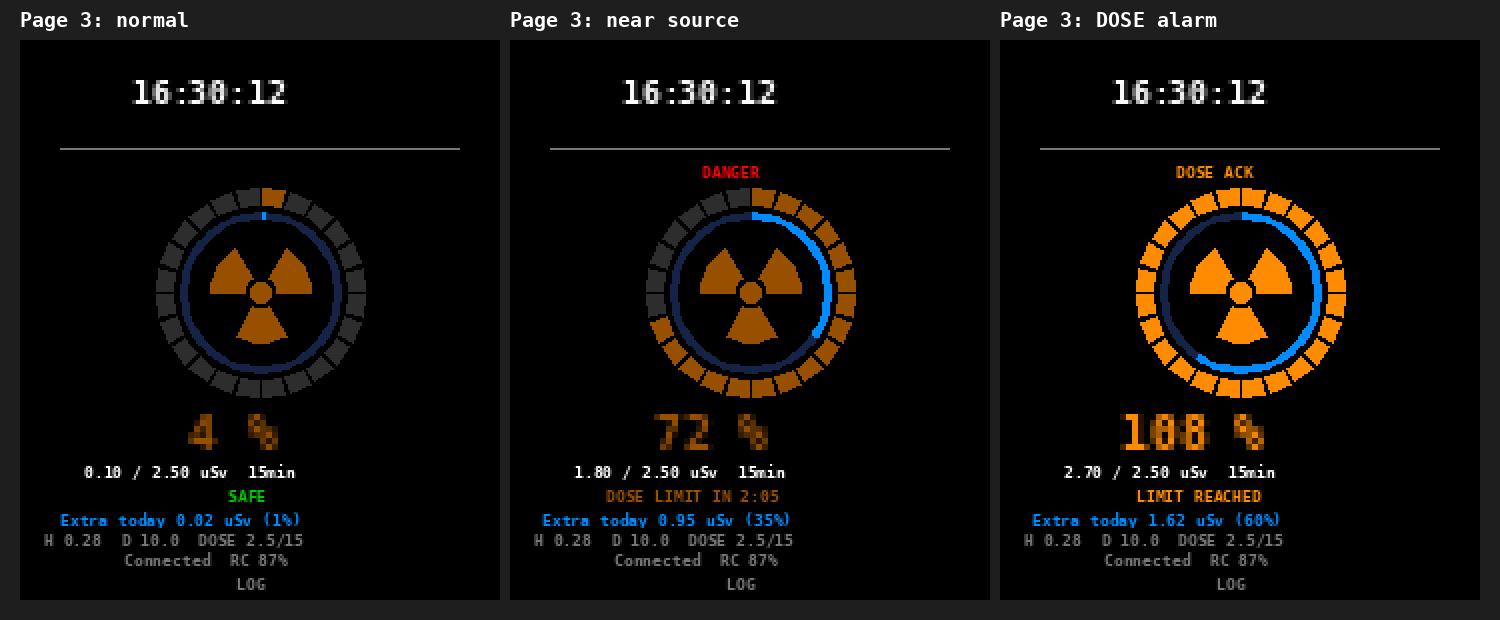
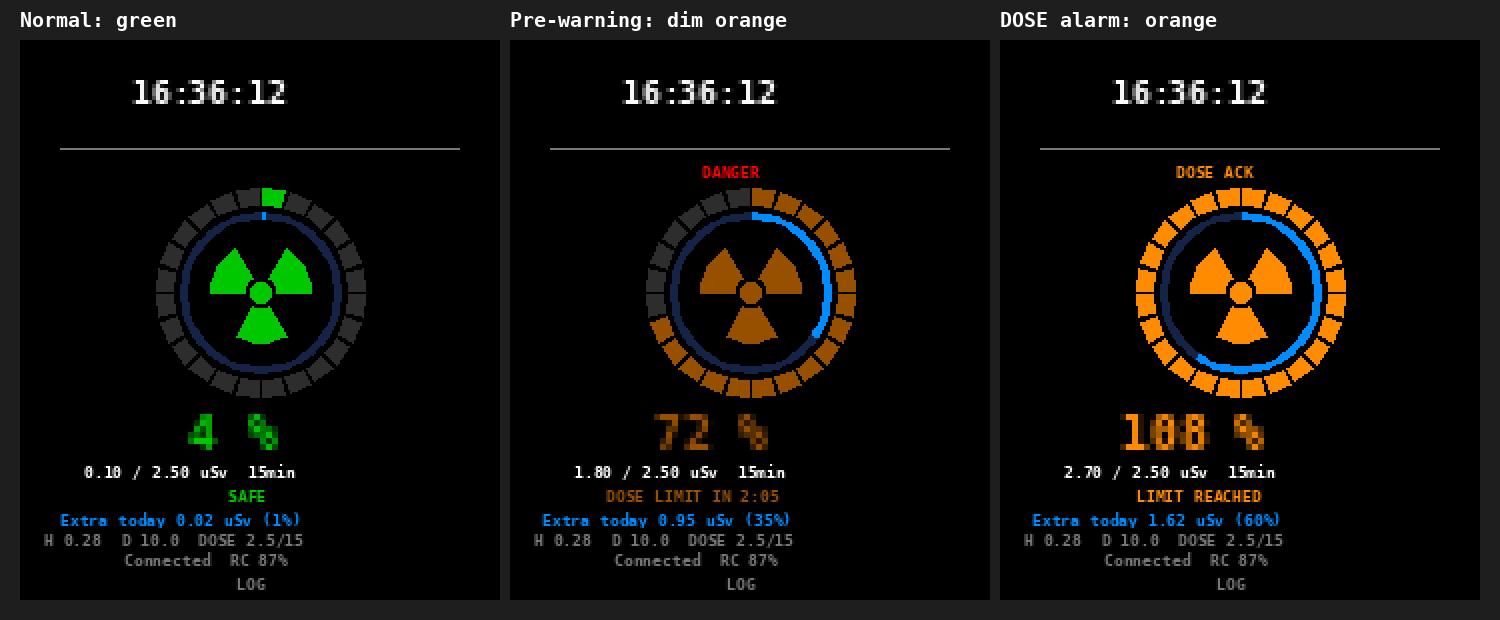
DOSE page: green ring below 50 %, configurable RING_WARN_PCT
Outer ring, symbol and percentage are green while normal, dimmed orange
from RING_WARN_PCT (pre-warning) and bright orange from 100 % (DOSE alarm).

Claude-Session: https://claude.ai/code/session_016u9NBAPkYpfQhF64SETgmy

diff --git a/board/app.py b/board/app.py
@@ -13,6 +13,8 @@
 #   2  DOSE page: radiation symbol with two rings
 #        outer ring (segments): dose within the last DOSE_WINDOW_MIN minutes
 #                               vs. DOSE_LIMIT_USV – drives the DOSE alarm
+#                               green < RING_WARN_PCT, dimmed orange < 100 %,
+#                               bright orange from 100 %
 #        inner ring (thin, blue): extra dose today above BACKGROUND_USV
 #                                 vs. DAILY_BUDGET_USV – information only
 #
@@ -595,12 +597,15 @@ def _draw_dose_page(lcd, fresh):
     pct = _dose_pct()
     epct = _extra_pct()
 
-    # colour: dimmed orange below 100 %, bright orange from 100 % (DOSE alarm);
-    # while the DOSE alarm blinks, the bright phases alternate with dimmed ones
-    if pct >= 100 and (not _is_blinking(3) or S.blink_on):
-        col = ORANGE
-    else:
+    # colour: green below RING_WARN_PCT (normal), dimmed orange up to 100 %
+    # (pre-warning), bright orange from 100 % (DOSE alarm); while the DOSE
+    # alarm blinks, the bright phases alternate with dimmed ones
+    if pct >= 100:
+        col = ORANGE if (not _is_blinking(3) or S.blink_on) else DIM_ORANGE
+    elif pct >= C.RING_WARN_PCT:
         col = DIM_ORANGE
+    else:
+        col = GREEN
 
     outer, inner = _ring_geometry()
     filled = min(RING_SEGMENTS, int(pct / 100 * RING_SEGMENTS + 0.5))

diff --git a/board/rc_config.py b/board/rc_config.py
@@ -61,10 +61,12 @@ DOSE_LIMIT_USV = 2.5
 
 # --- DOSE page (3rd page, short PWR press cycles µSv/h -> CPS -> DOSE) ------------
 # Outer ring: dose of the last DOSE_WINDOW_MIN minutes in % of DOSE_LIMIT_USV
-#   (dimmed orange below 100 %, bright orange from 100 % = DOSE alarm).
+#   green below RING_WARN_PCT (normal), dimmed orange from RING_WARN_PCT
+#   (pre-warning), bright orange from 100 % (= DOSE alarm).
 # Inner ring (blue): extra dose today = dose above BACKGROUND_USV since
 #   switching on, in % of DAILY_BUDGET_USV. Information only, no alarm.
 #   2.7 µSv/day ≈ 1 mSv per year (public limit for artificial exposure) / 365.
+RING_WARN_PCT = 50         # outer ring turns from green to dimmed orange
 BACKGROUND_USV = 0.15      # dose rate below this does not count as extra dose
 DAILY_BUDGET_USV = 2.7
 

diff --git a/docs/CONFIGURATION.md b/docs/CONFIGURATION.md
@@ -99,12 +99,15 @@ the press acknowledges first).
 
 | Setting | Default | Meaning |
 |---|---|---|
+| `RING_WARN_PCT` | `50` | outer ring changes from green (normal) to dimmed orange (pre-warning) |
 | `BACKGROUND_USV` | `0.15` | dose rate below this does not count as extra dose (set slightly above your local background) |
 | `DAILY_BUDGET_USV` | `2.7` | 100 % of the inner ring; ≈ 1 mSv per year (public limit for artificial exposure) ÷ 365 |
 
 - **Outer ring** (24 segments, ~4 % each): dose of the last `DOSE_WINDOW_MIN`
-  minutes in % of `DOSE_LIMIT_USV`. Dimmed orange below 100 %, bright orange
-  from 100 % (= DOSE alarm). It empties again when you move away.
+  minutes in % of `DOSE_LIMIT_USV`. **Green** below `RING_WARN_PCT` (normal),
+  **dimmed orange** from there (pre-warning), **bright orange** from 100 %
+  (= DOSE alarm, blinks while the siren sounds). Symbol and percentage use the
+  same colour. It empties again when you move away.
 - **Inner ring** (blue): extra dose since switching on – only the part above
   `BACKGROUND_USV` – in % of `DAILY_BUDGET_USV`. Information only, no alarm;
   it restarts at 0 after switching off and on.

diff --git a/README.md b/README.md
@@ -84,7 +84,7 @@ status lines.
 
 | Ring | Shows | Fills | Empties |
 |---|---|---|---|
-| outer, segments, orange | dose of the last 15 min vs. the dose limit | near a source | by itself when you move away (sliding window) |
+| outer, segments, green → orange | dose of the last 15 min vs. the dose limit | near a source | by itself when you move away (sliding window) |
 | inner, thin, blue | extra dose above background since switching on vs. daily budget | slowly over the day | only when switched off and on again |
 
 Log files: `/logs/rc_YYYY-MM-DD_HHMM.csv` with `Time;uSv/h;CPS;Alarm;Dose15`

diff --git a/CHANGELOG.md b/CHANGELOG.md
@@ -5,7 +5,8 @@
 - **New 3rd page "DOSE"** – a short PWR press now cycles
   µSv/h → CPS → DOSE. Radiation symbol with two rings:
   - outer ring (24 segments): dose of the last 15 min in % of the dose
-    limit – dimmed orange below 100 %, bright orange from 100 % (DOSE alarm)
+    limit – green below 50 % (`RING_WARN_PCT`), dimmed orange up to 100 %,
+    bright orange from 100 % (DOSE alarm)
   - inner ring (blue): **extra dose today** above `BACKGROUND_USV`
     (0.15 µSv/h) since switching on, in % of `DAILY_BUDGET_USV` (2.7 µSv ≈
     1 mSv/year ÷ 365) – information only
